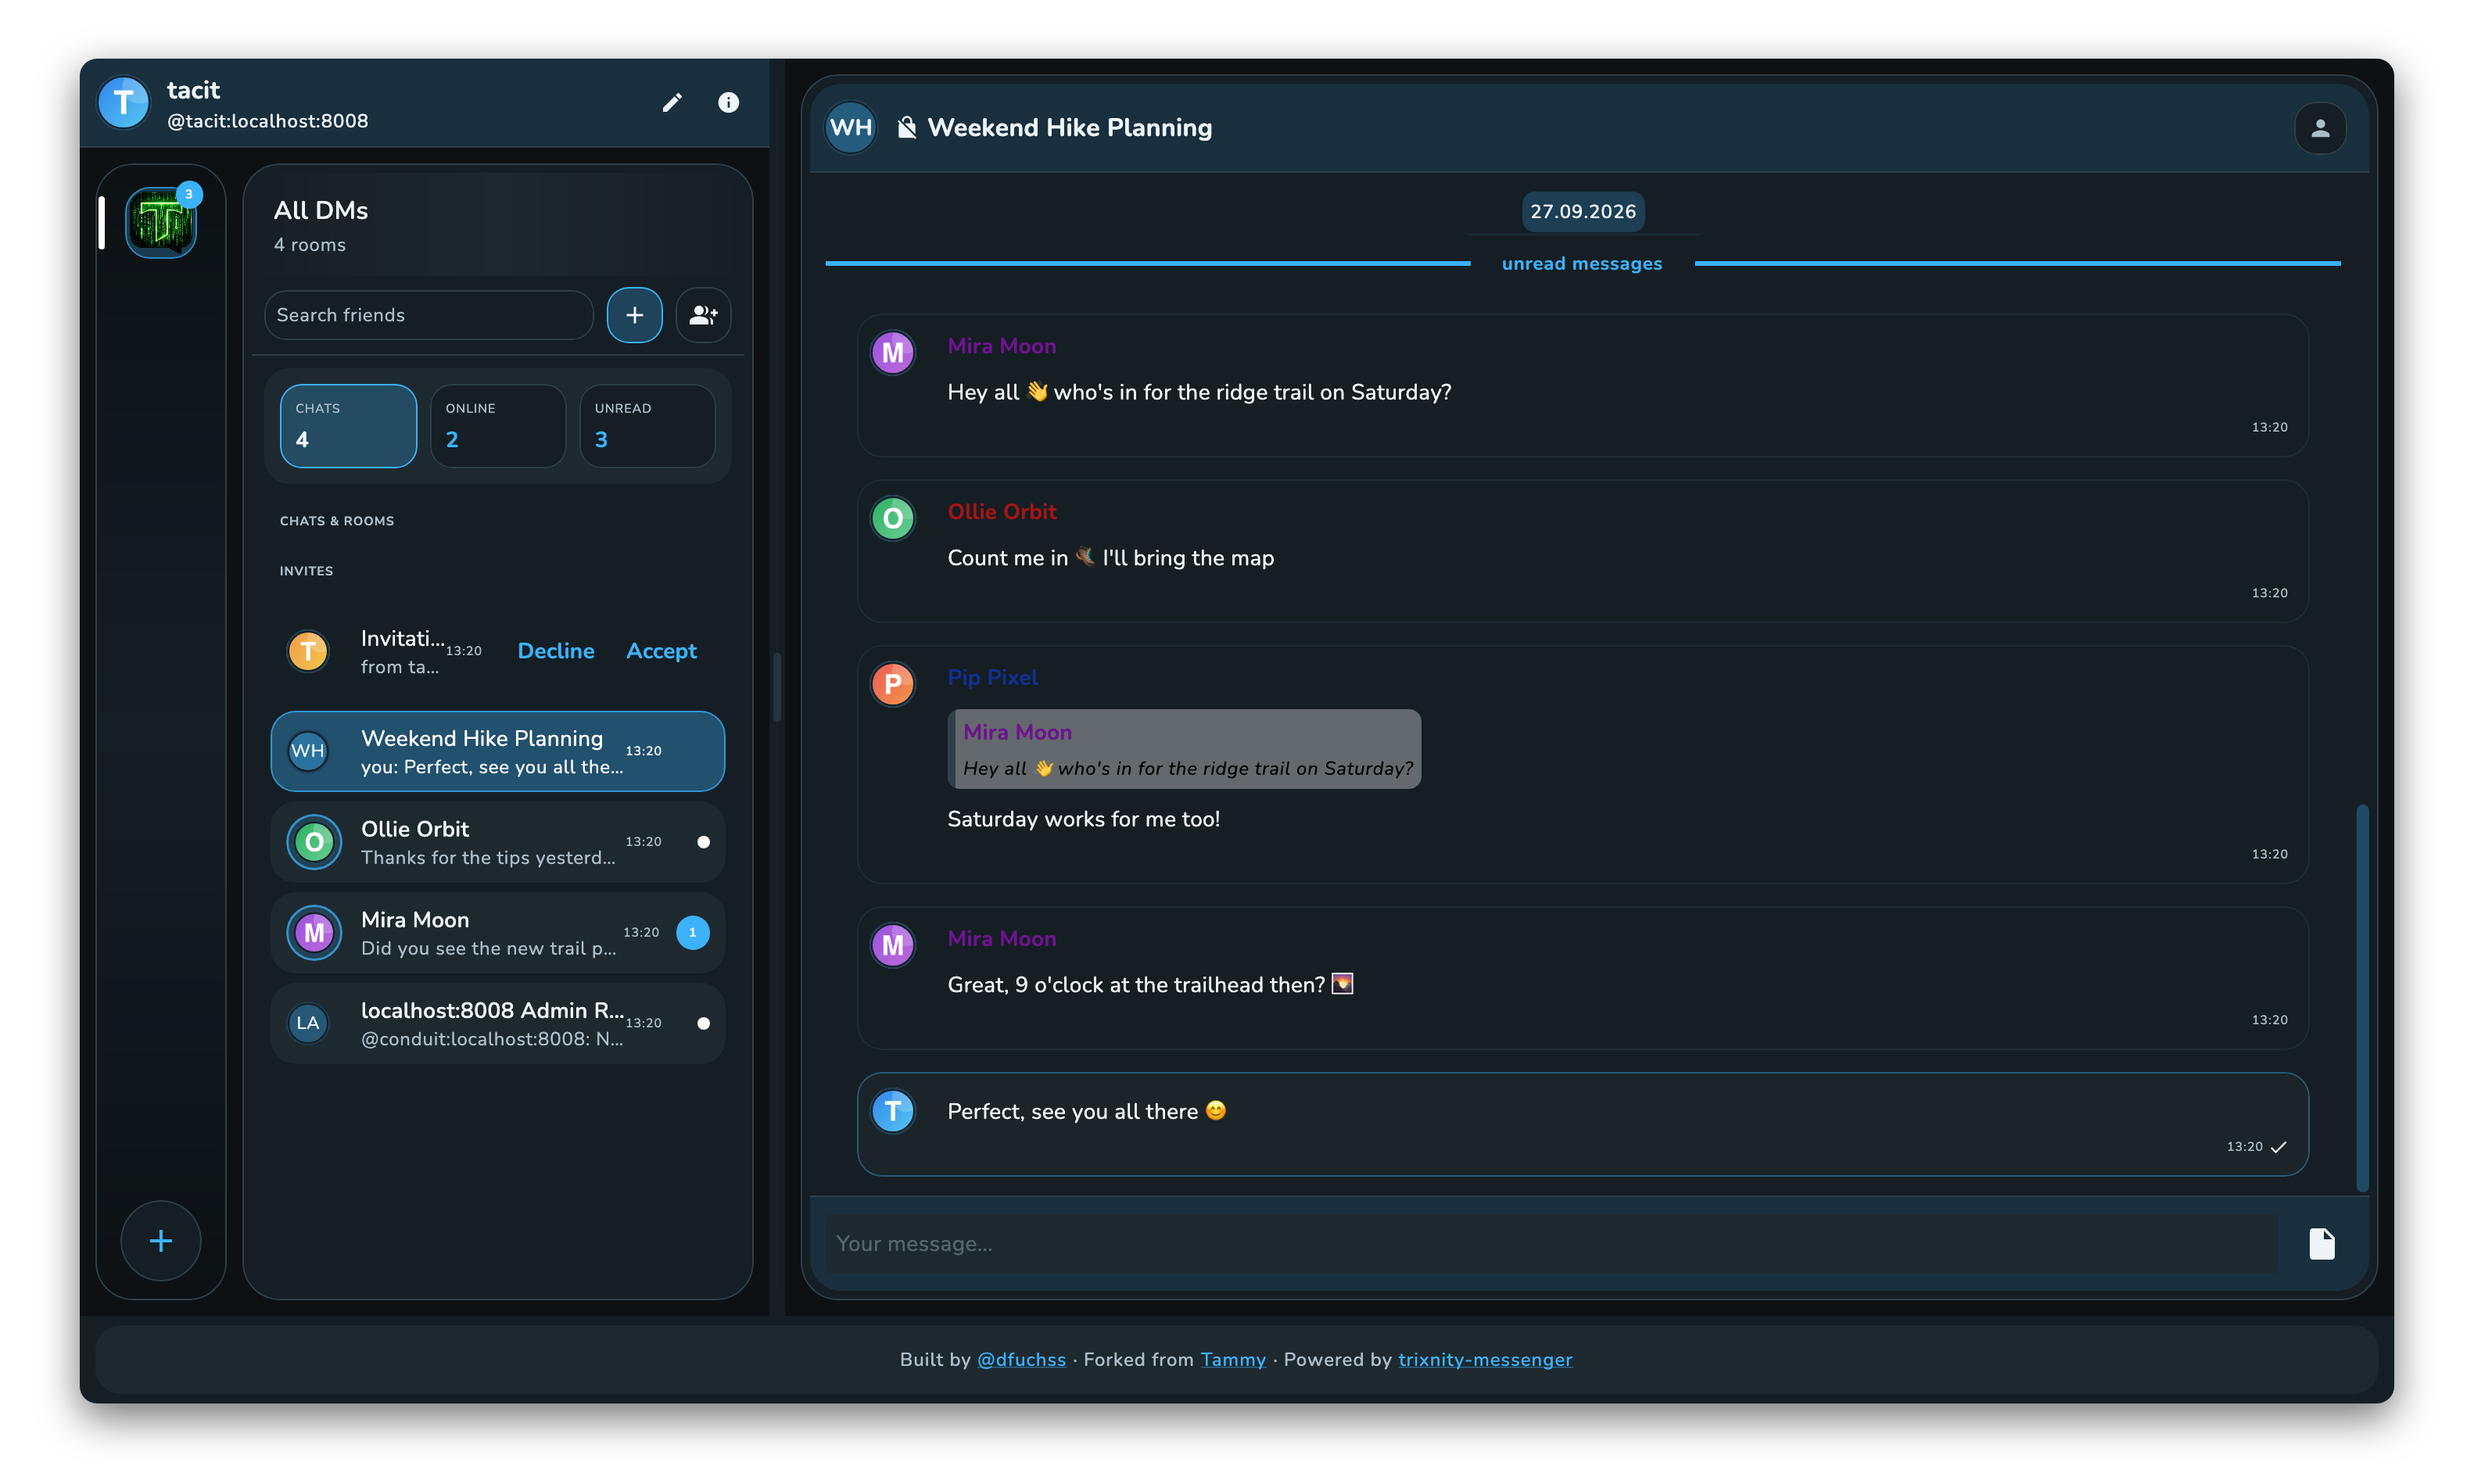
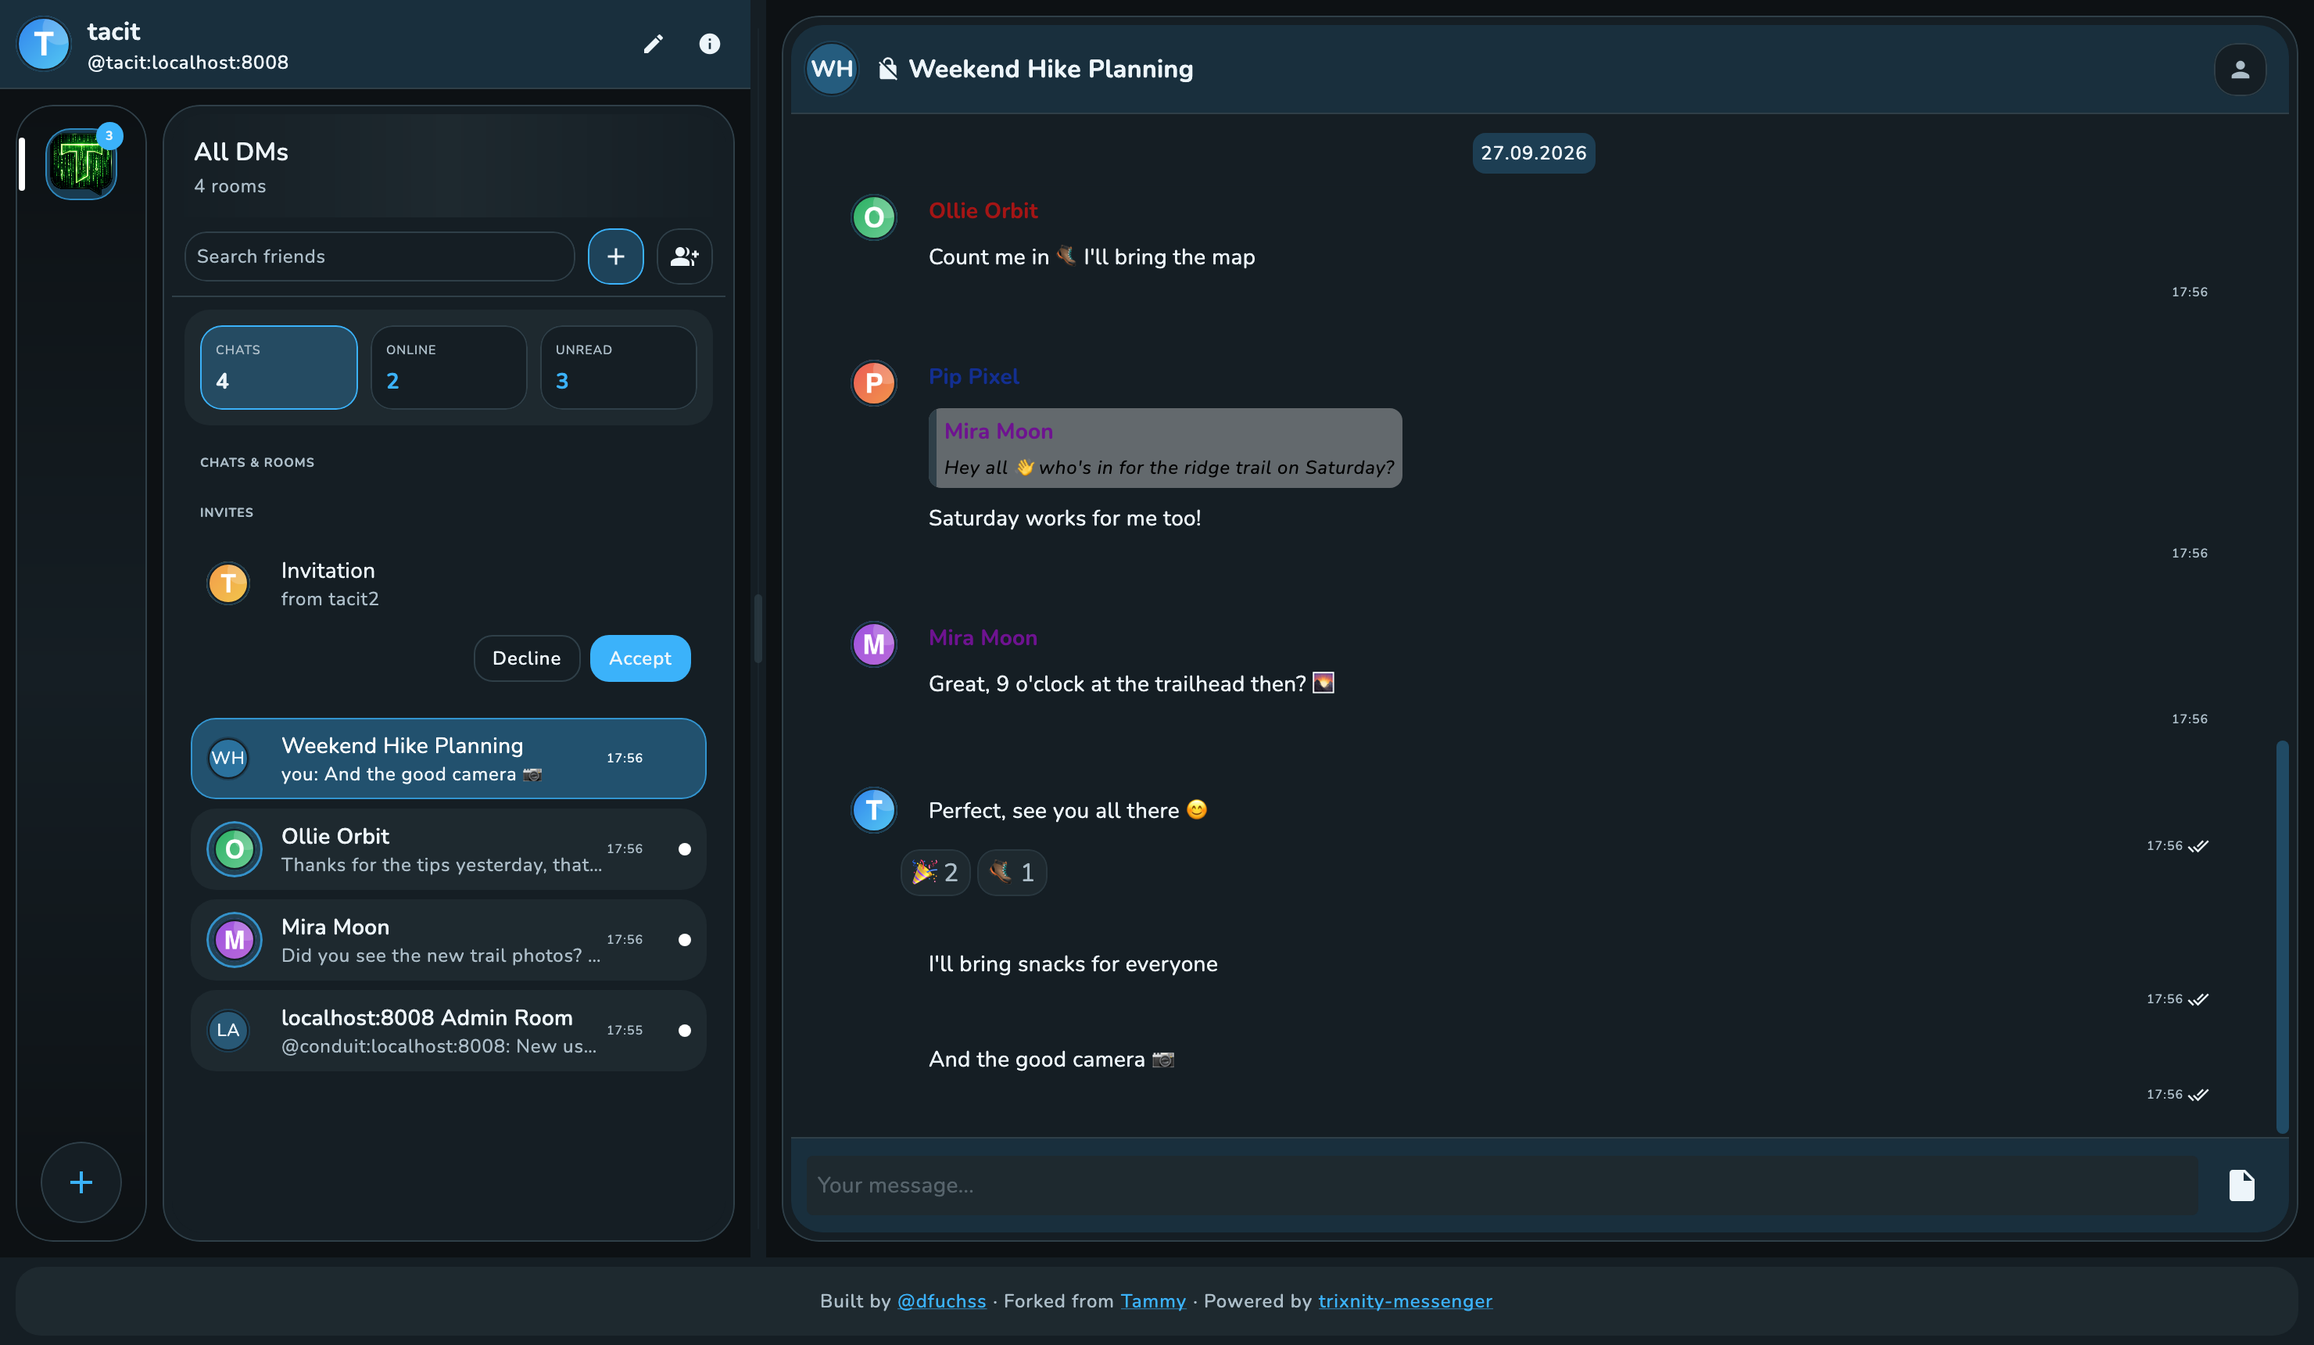
Regenerate README screenshots

diff --git a/src/jvmTest/kotlin/org/fuchss/matrix/tacit/readmeshots/ReadmeScreenshotsGenerator.kt b/src/jvmTest/kotlin/org/fuchss/matrix/tacit/readmeshots/ReadmeScreenshotsGenerator.kt
@@ -13,12 +13,15 @@ import androidx.compose.ui.test.hasClickAction
 import androidx.compose.ui.test.hasContentDescription
 import androidx.compose.ui.test.hasSetTextAction
 import androidx.compose.ui.test.hasText
+import androidx.compose.ui.test.isPopup
 import androidx.compose.ui.test.isRoot
 import androidx.compose.ui.test.onFirst
 import androidx.compose.ui.test.hasScrollToIndexAction
 import androidx.compose.ui.test.performClick
 import androidx.compose.ui.test.performMouseInput
 import androidx.compose.ui.test.performScrollToIndex
+import androidx.compose.ui.test.performSemanticsAction
+import androidx.compose.ui.semantics.SemanticsActions
 import androidx.compose.ui.test.performTextInput
 import androidx.compose.ui.test.SkikoComposeUiTest
 import androidx.compose.ui.unit.Density
@@ -169,18 +172,34 @@ class ReadmeScreenshotsGenerator {
         ollie.setPresence("online")
         mira.sendText(miraDm, "Did you see the new trail photos? 📸")
         ollie.sendText(ollieDm, "Thanks for the tips yesterday, that fixed it!")
+        // Runs of consecutive messages from one sender (remote and local) exercise message grouping.
         val kickoff = mira.sendText(hike, "Hey all 👋 who's in for the ridge trail on Saturday?")
+        mira.sendText(hike, "Forecast says sunny all day ☀")
+        mira.sendText(hike, "I was thinking we start early and do the full loop")
         ollie.sendText(hike, "Count me in 🥾 I'll bring the map")
         pip.sendReply(hike, "Saturday works for me too!", replyTo = kickoff)
         mira.sendText(hike, "Great, 9 o'clock at the trailhead then? 🌄")
         // The local user answers last, so the timeline sits at the bottom with both bubble styles visible.
-        ui.await(30_000, "open the group chat and answer") {
+        ui.await(45_000, "open the group chat and answer") {
             val timeline = app.selectRoom(RoomId(hike))
             delay(1_000)
-            with(app) { sendMessage(timeline.inputAreaViewModel, "Perfect, see you all there 😊") }
+            with(app) {
+                sendMessage(timeline.inputAreaViewModel, "Perfect, see you all there 😊")
+                delay(700)
+                sendMessage(timeline.inputAreaViewModel, "I'll bring snacks for everyone")
+                delay(700)
+                sendMessage(timeline.inputAreaViewModel, "And the good camera 📷")
+            }
         }
+        // Reactions on the local user's message (remote users react).
+        val perfectEventId = ollie.findMessageEventId(hike, "see you all there")
+        ollie.react(hike, perfectEventId, "🎉")
+        pip.react(hike, perfectEventId, "🎉")
+        mira.react(hike, perfectEventId, "🥾")
         step("overview") {
-            ui.waitForNode("own message in the group chat", hasText("see you all there", substring = true))
+            ui.waitForNode("own message in the group chat", hasText("good camera", substring = true))
+            ui.settleForCapture() // the lazy list only composes visible rows: anchor it at the end first
+            ui.waitForNode("reactions on the own message", hasText("🎉", substring = true))
             ui.settleForCapture()
             ui.capture("overview")
         }
@@ -210,6 +229,8 @@ class ReadmeScreenshotsGenerator {
         }
         tacit2.setPresence("online")
         tacit2.sendText(dmRoomId, "Howdy 👋")
+        tacit2.sendText(dmRoomId, "Just installed Tacit")
+        tacit2.sendText(dmRoomId, "Looks neat so far!")
         step("chatting") {
             ui.await(30_000, "open DM and send a message") {
                 val timeline = app.selectRoom(dmRoom)
@@ -218,6 +239,9 @@ class ReadmeScreenshotsGenerator {
             }
             ui.waitForNode("own message in the timeline", hasText("Let's chat 😊", substring = true))
             ui.waitForNode("tacit2's message in the timeline", hasText("Howdy", substring = true))
+            tacit2.react(dmRoomId, tacit2.findMessageEventId(dmRoomId, "Let's chat"), "👍")
+            ui.settleForCapture()
+            ui.waitForNode("reaction in the DM", hasText("👍", substring = true))
             ui.settleForCapture()
             ui.capture("chatting")
         }
@@ -236,7 +260,9 @@ class ReadmeScreenshotsGenerator {
         // 5. guild_create: the real dialog, filled in, before creating the guild through it
         step("guild_create") {
             ui.settleForCapture()
-            ui.click(hasContentDescription("Create guild"))
+            ui.click(hasText("has created the chat", substring = true)) // moves focus out of the composer
+            ui.parkPointer()
+            ui.activate(hasContentDescription("Create guild")) // no pointer hover: the button has a tooltip
             ui.waitForNode("create guild dialog", hasText("Create Guild"))
             ui.typeInto(hasText("Guild name"), "Adventure")
             ui.typeInto(hasText("Guild topic (optional)"), "This is my guild for adventurers :)")
@@ -260,7 +286,9 @@ class ReadmeScreenshotsGenerator {
         // 7. guild_invite: the real invite dialog with a user directory hit
         step("guild_invite") {
             ui.settleForCapture()
-            ui.click(hasContentDescription("Invite members"))
+            ui.click(hasText("has created the group", substring = true))
+            ui.parkPointer()
+            ui.activate(hasContentDescription("Invite members"))
             ui.waitForNode("invite dialog", hasText("Invite to Guild"))
             ui.typeInto(hasText("Matrix user ID"), "tac")
             ui.waitForNode("user directory result", hasText(tacit2.userId, substring = true) and hasClickAction())
@@ -403,8 +431,15 @@ class ReadmeScreenshotsGenerator {
         fun settleForCapture() {
             settle(300)
             parkPointer()
-            escapeKeyPressed.tryEmit(Unit)
-            settle(1_200)
+            // Hover tooltips are popups; a modal dialog above the hovered button swallows the pointer "exit", so
+            // dismiss them the way the app does on Escape and wait until no popup is left.
+            val popupDeadline = System.currentTimeMillis() + 6_000
+            do {
+                escapeKeyPressed.tryEmit(Unit)
+                settle(600)
+            } while (test.onAllNodes(isPopup()).fetchSemanticsNodes().isNotEmpty() && System.currentTimeMillis() < popupDeadline)
+            println("SCREENSHOT settle: popups=${test.onAllNodes(isPopup()).fetchSemanticsNodes().size}")
+            settle(600)
             val chevron = hasContentDescription("Jump to the end")
             val spinner = SemanticsMatcher.expectValue(SemanticsProperties.ProgressBarRangeInfo, ProgressBarRangeInfo.Indeterminate)
             fun unsettled() = test.onAllNodes(chevron or spinner).fetchSemanticsNodes().isNotEmpty()
@@ -427,13 +462,23 @@ class ReadmeScreenshotsGenerator {
             pump()
         }
 
-        private fun parkPointer() {
+        fun parkPointer() {
             runCatching {
                 test.onAllNodes(isRoot()).onFirst().performMouseInput {
                     moveTo(Offset(60f, (ScreenshotFrame.CONTENT_HEIGHT_PX - 40).toFloat())) // the footer strip
                 }
             }.onFailure { println("SCREENSHOT settle: park pointer failed $it") }
             pump()
+        }
+
+        /**
+         * Triggers a control's click action without moving the pointer onto it. Used for buttons that open a modal
+         * dialog: a real click would leave the button hovered underneath the dialog (the dialog swallows the
+         * pointer "exit"), so its hover tooltip would show up in the capture.
+         */
+        fun activate(matcher: SemanticsMatcher) {
+            test.onAllNodes(matcher).onFirst().performSemanticsAction(SemanticsActions.OnClick)
+            settle(200)
         }
 
         fun click(matcher: SemanticsMatcher) {
@@ -450,6 +495,8 @@ class ReadmeScreenshotsGenerator {
         }
 
         fun capture(name: String) {
+            val popups = test.onAllNodes(isPopup()).fetchSemanticsNodes().size
+            if (popups > 0) println("SCREENSHOT WARNING: $name captured with $popups popup(s) open")
             val out = File(outputDir, "$name.png")
             out.writeBytes(ScreenshotFrame.toPng(captureRoot()))
             println("SCREENSHOT wrote ${out.absolutePath}")

diff --git a/src/jvmTest/kotlin/org/fuchss/matrix/tacit/readmeshots/MatrixHttp.kt b/src/jvmTest/kotlin/org/fuchss/matrix/tacit/readmeshots/MatrixHttp.kt
@@ -157,6 +157,36 @@ internal class MatrixSession(private val http: MatrixHttp, val userId: String, v
         setAccountData("m.direct", buildJsonObject { put(otherUserId, buildJsonArray { add(kotlinx.serialization.json.JsonPrimitive(roomId)) }) })
     }
 
+    /** Event id of the newest `m.room.message` in [roomId] whose body contains [bodyFragment], polling briefly. */
+    fun findMessageEventId(roomId: String, bodyFragment: String, attempts: Int = 40): String {
+        repeat(attempts) {
+            val hit = call("GET", "/_matrix/client/v3/rooms/${encodePath(roomId)}/messages?dir=b&limit=30")["chunk"]?.jsonArray
+                ?.map { it.jsonObject }
+                ?.firstOrNull {
+                    it["type"]?.jsonPrimitive?.content == "m.room.message" &&
+                        it["content"]?.jsonObject?.get("body")?.jsonPrimitive?.content?.contains(bodyFragment) == true
+                }
+            if (hit != null) return hit.getValue("event_id").jsonPrimitive.content
+            Thread.sleep(250)
+        }
+        error("no message containing '$bodyFragment' in $roomId")
+    }
+
+    /** Reacts to [eventId] with [key] (an `m.reaction` annotation). */
+    fun react(roomId: String, eventId: String, key: String) {
+        call(
+            "PUT",
+            "/_matrix/client/v3/rooms/${encodePath(roomId)}/send/m.reaction/${UUID.randomUUID()}",
+            buildJsonObject {
+                put("m.relates_to", buildJsonObject {
+                    put("rel_type", "m.annotation")
+                    put("event_id", eventId)
+                    put("key", key)
+                })
+            },
+        )
+    }
+
     /** Body of the newest `m.room.message` in [roomId] as the server sees it (null if none yet). */
     fun lastMessageBody(roomId: String): String? =
         call("GET", "/_matrix/client/v3/rooms/${encodePath(roomId)}/messages?dir=b&limit=10")["chunk"]?.jsonArray
